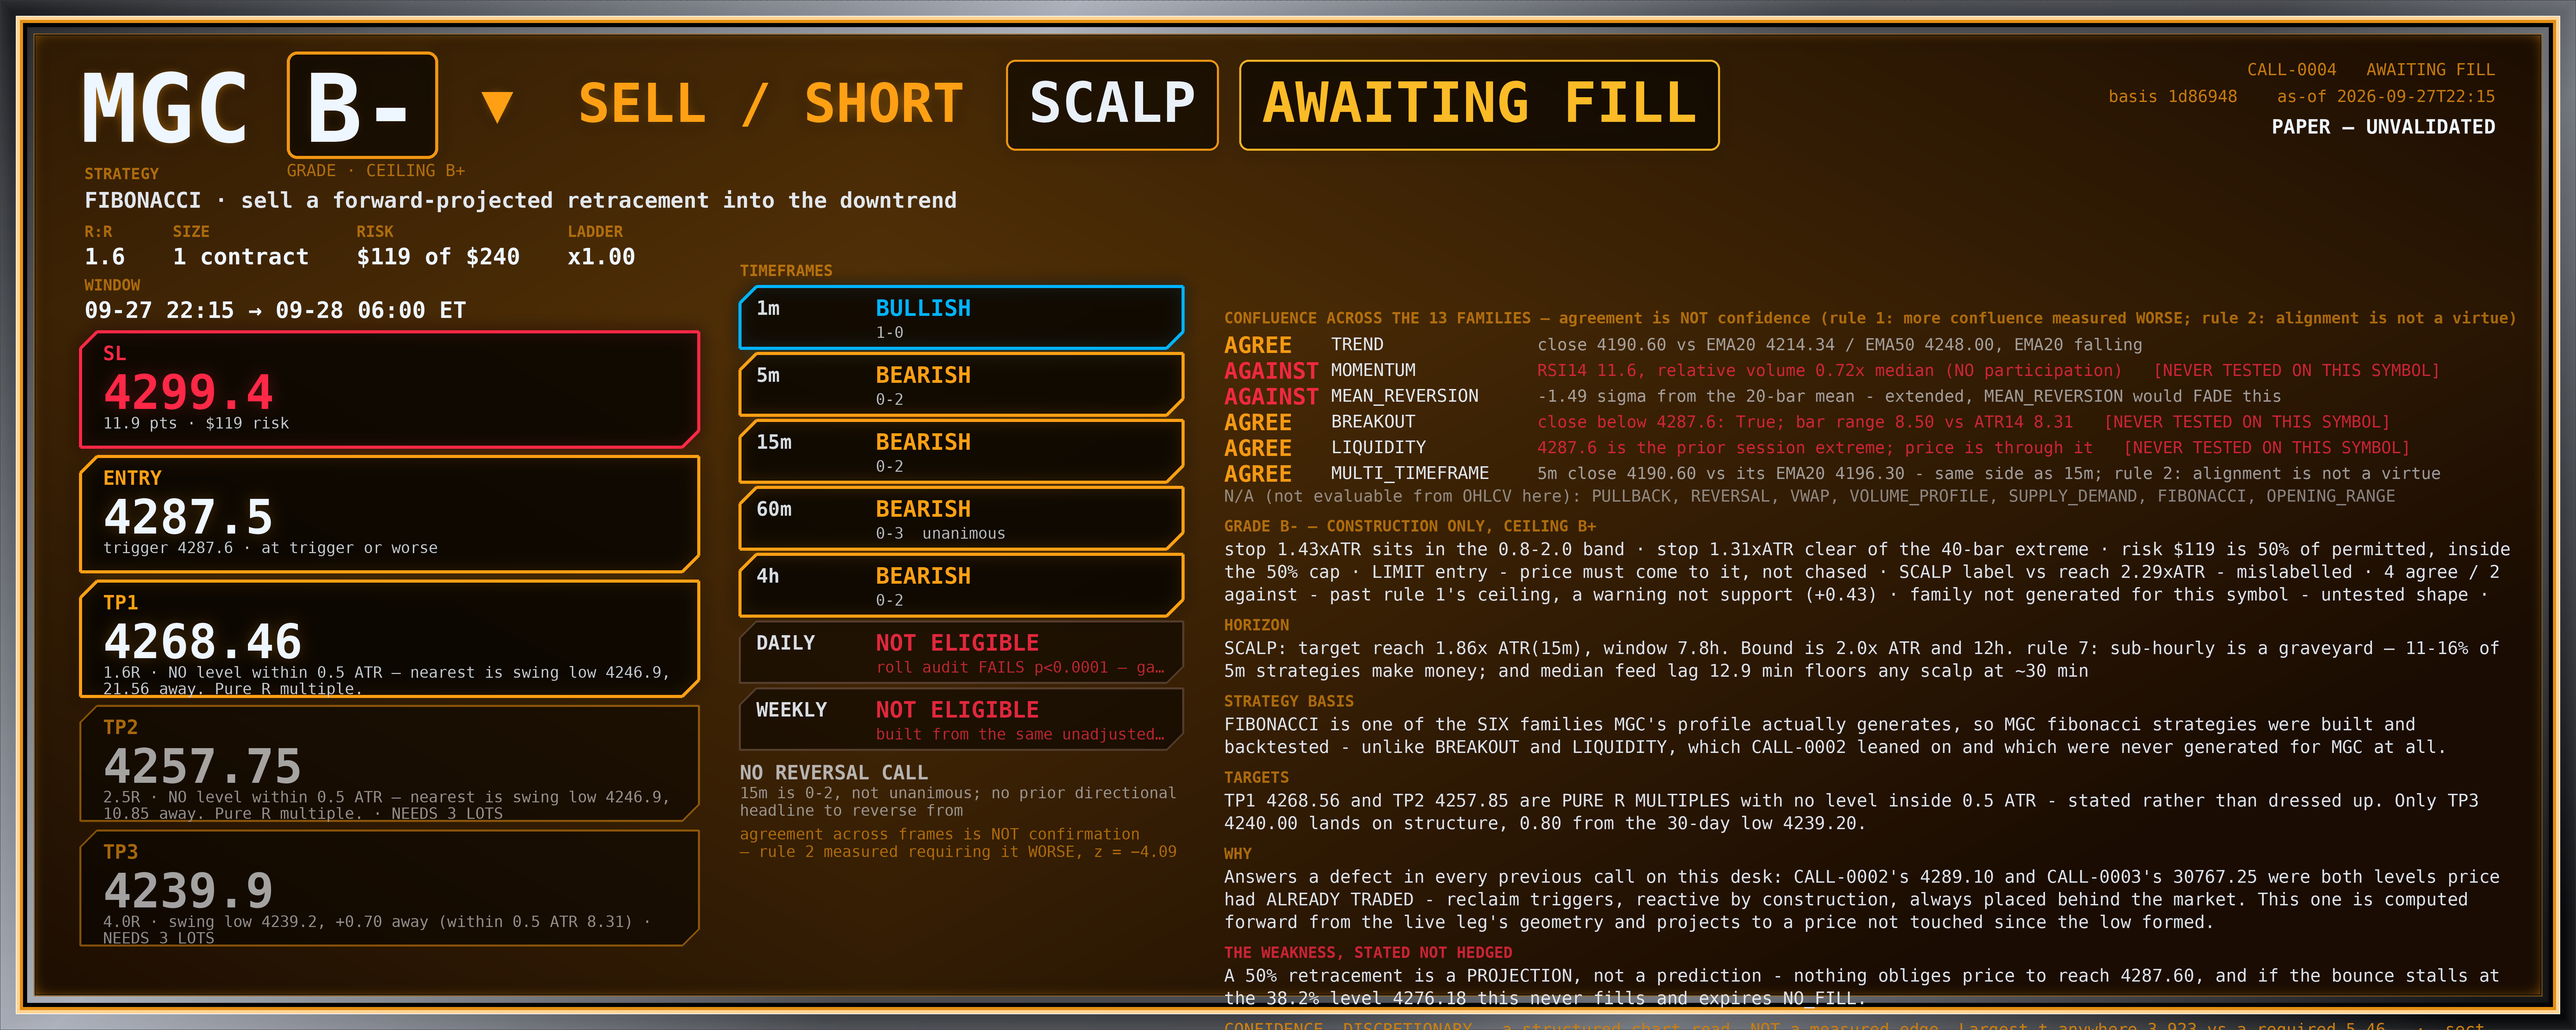
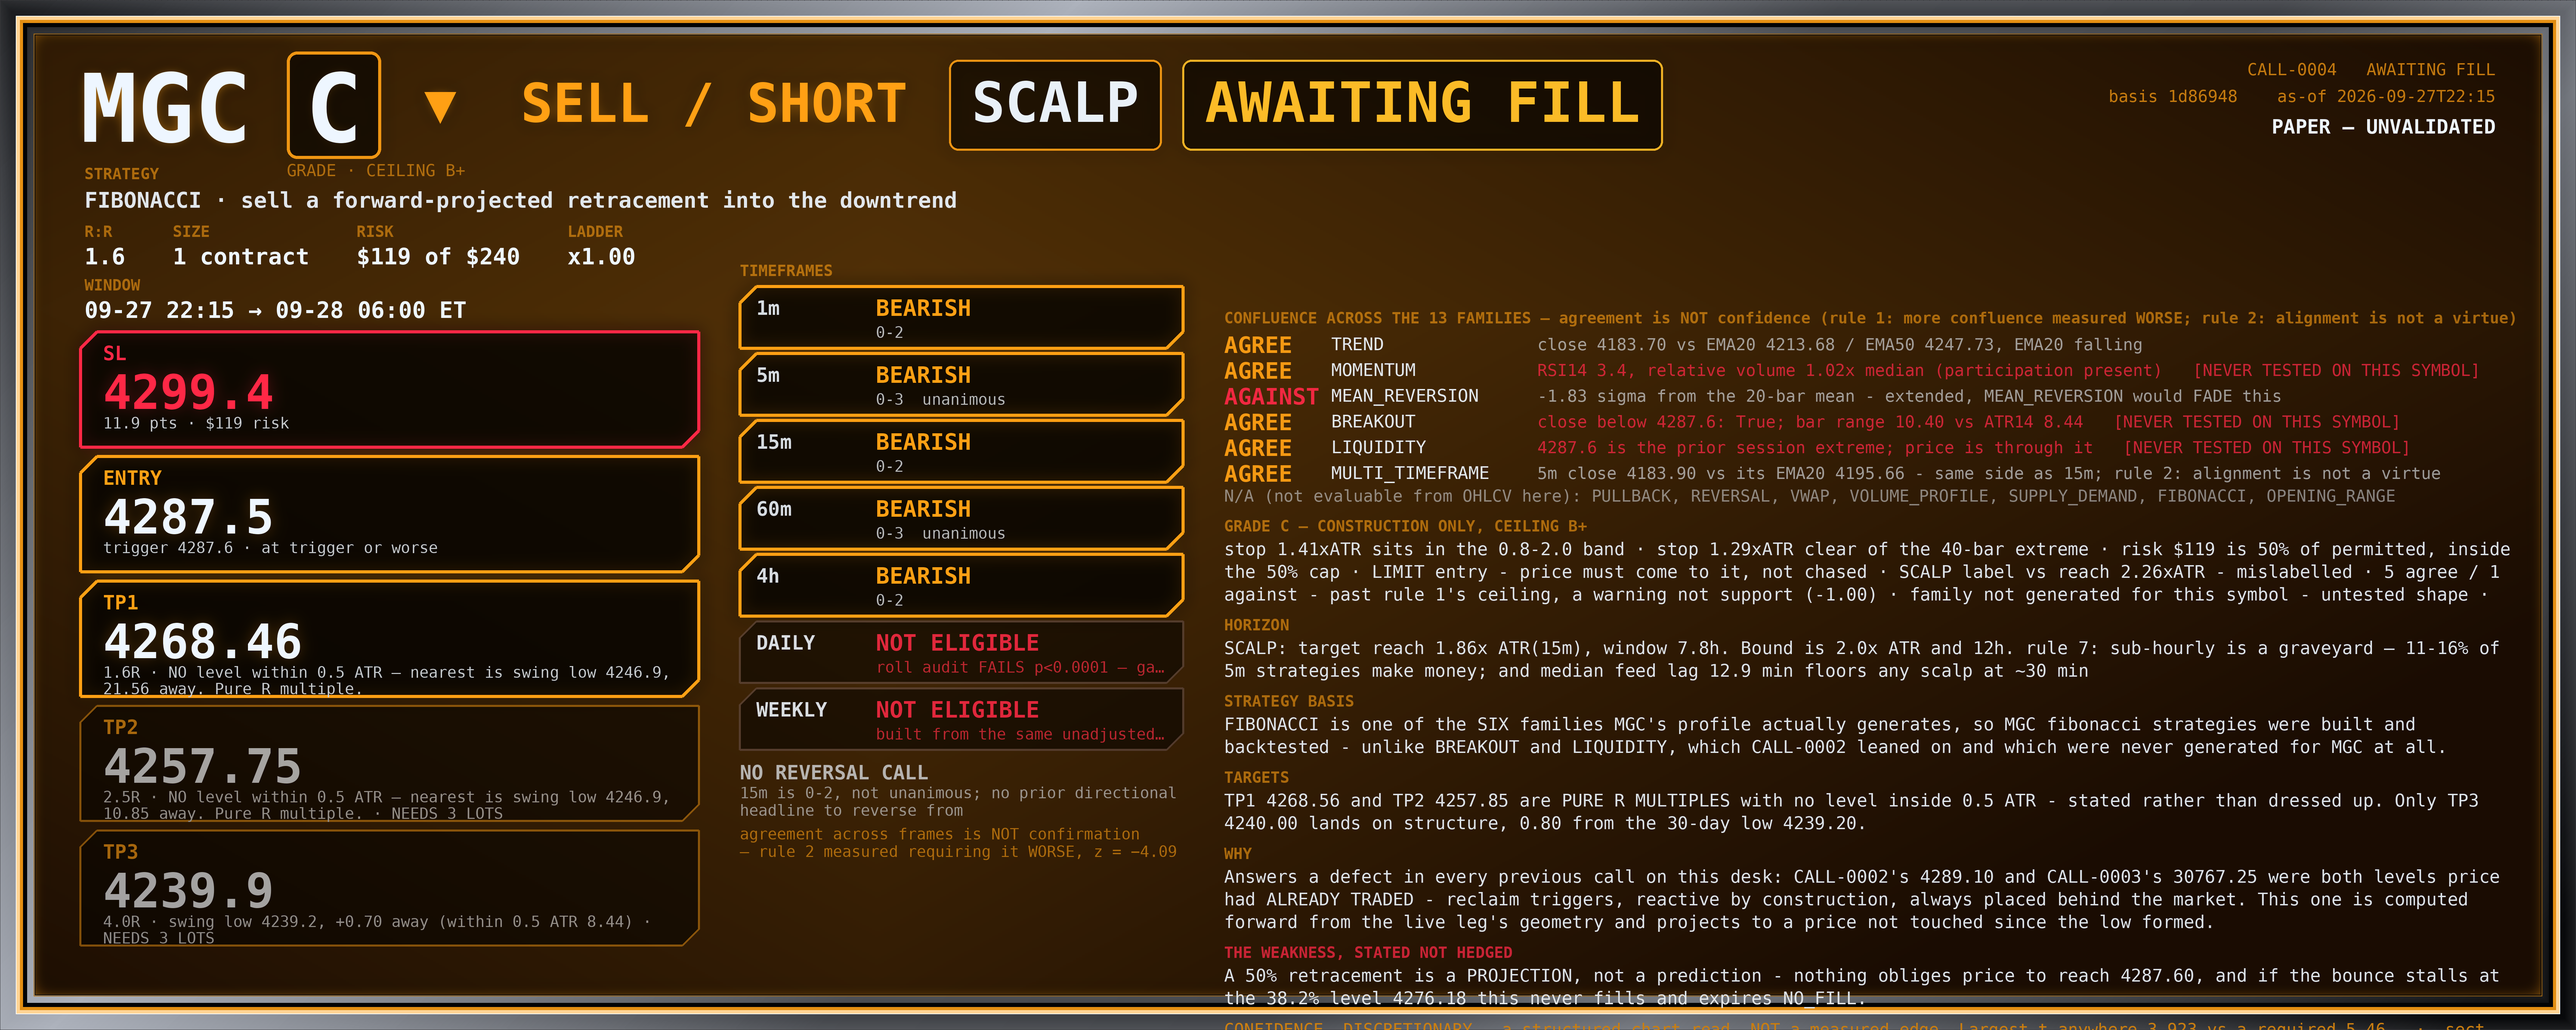
04:07 AM EDT: a nominally-closed bar was still being revised eight minutes later, turning my "lifting off the lows" into a new low (N41)
Newest real 5m bar still 03:55 (lag 13.0m), +0 new / 1 revised. Two minutes ago I reported both
symbols lifting off their lows with MGC location 2.7% -> 5.1%. Same 03:55 bar, re-fetched:
  04:05 read  03:55  h 4193.10  l 4187.50  c 4190.60
  04:07 read  03:55  h 4193.10  l 4182.70  c 4183.90
Low 4.80 lower, close 6.70 lower, on a bar that nominally closed at 04:00 - eight minutes before
this re-read, and an adjustment larger than MGC's entire 5m ATR of ~4.9. Location went 5.1% ->
0.8% and the 40-bar low reset to 4182.70. "Lifting off the lows" became "printed a new low" from
the same bar, with no new bar arriving.

This is not simply the known revision behaviour. fetch.py already keys freshness on new timestamp
OR changed OHLCV for exactly that reason. What I had not internalised is the WINDOW: I have been
treating a bar whose nominal period has ended as settled and reading its close as a fact. At 13
minutes of lag there is no boundary at which a bar becomes final, only a decreasing probability
of change.

N16's "quote the last bar with real volume" does not cover this - the 03:55 bar had real volume
both times. The stronger rule: the newest one or two bars are PROVISIONAL regardless of volume or
nominal close, and any directional statement built only on them is provisional too. "Both symbols
lifting off their lows" should have been "the newest bar currently shows a bounce; it is inside
[…]

diff --git a/workspace/paper/CALL/NOTES.md b/workspace/paper/CALL/NOTES.md
@@ -2438,3 +2438,57 @@ to the $2,800 absorbing state     $2,800.00
 stop; CALL-0004 DIRECTION RIGHT at 64.10 favourable against a 19.04 target with 0.30 adverse.
 No call — `reversal()` declines on both, MGC on its structural HTF veto and MNQ on the 15m/60m
 lower frames agreeing with the downtrend rather than against it.
+
+## N41 — a nominally-closed bar was still being revised eight minutes later, and it turned my "lifting off the lows" into a new low
+
+04:07 AM EDT. Two minutes ago I reported "both symbols lifting off their lows", MGC location
+2.7% -> 5.1%. The same 03:55 bar, re-fetched:
+
+```
+04:05 read   03:55  h 4193.10  l 4187.50  c 4190.60
+04:07 read   03:55  h 4193.10  l 4182.70  c 4183.90
+```
+
+The low moved **4.80 points lower** and the close **6.70 lower**, on a bar that nominally closed
+at 04:00 — five minutes before I read it and eight before this re-read. MGC's location went
+5.1% -> **0.8%** and its 40-bar low reset to 4182.70. "Lifting off the lows" became "printed a
+new low", from the same bar, without any new bar arriving.
+
+### Why this is not just the known revision behaviour
+
+`fetch.py`'s freshness test already keys on **new timestamp OR changed OHLCV** precisely because
+the newest bar gets revised, and `CHECK_PROCEDURE.md` records that a timestamp-only test would
+have silently dropped revisions. So revisions themselves are expected and handled.
+
+What I had not internalised is the **window**: I have been treating a bar whose nominal period
+has ended as settled, and reading its close as a fact. It is not. At 13 minutes of feed lag the
+vendor is still adjusting a bar eight minutes after its period closed, and the adjustment here
+was larger than MGC's entire 5m ATR of ~4.9. So there is no clean boundary at which a bar
+becomes final — only a decreasing probability of change.
+
+### The practical rule, which N16 half-found and I then dropped
+
+N16 established "quote the last bar with real volume" after the `v==0, h!=l` forming-bar
+discovery, and called it a standing habit. That habit protects against an *unvolumed* bar. It
+does not protect against this: the 03:55 bar had real volume both times and was still revised.
+
+The stronger rule: **the newest one or two bars are provisional regardless of volume or nominal
+close, and any statement about direction built only on them is provisional too.** Concretely,
+the sentence "both symbols lifting off their lows" should have been "the newest bar currently
+shows a bounce; it is inside the revision window." That is not hedging for its own sake — the
+difference between those two sentences is the difference between what I said and what was true
+two minutes later.
+
+This is also why the structural frames matter more than I have been crediting: the 15m and 60m
+readings did not move at all through this, and they were right. My 04:05 report led with the
+1m/location change, which was the part that evaporated.
+
+### State
+
+MGC **4183.90**, a new low at 4182.70, location 0.8% of range. MNQ 30604.25 at 10.1%, its own
+bounce also partly given back. MNQ's 1m fell from unanimous BULLISH 3-0 to a thin 1-0 and MGC's
+1m is back to bearish — both fast-frame flips inside two minutes, which is N9 again.
+
+Nothing triggered, nothing resolved. `reversal()` declines on both. CALL-0004's favourable
+excursion is 65.60 against a 19.04 target with 0.30 adverse, 104.00 from its trigger, expiring
+06:00 ET.
